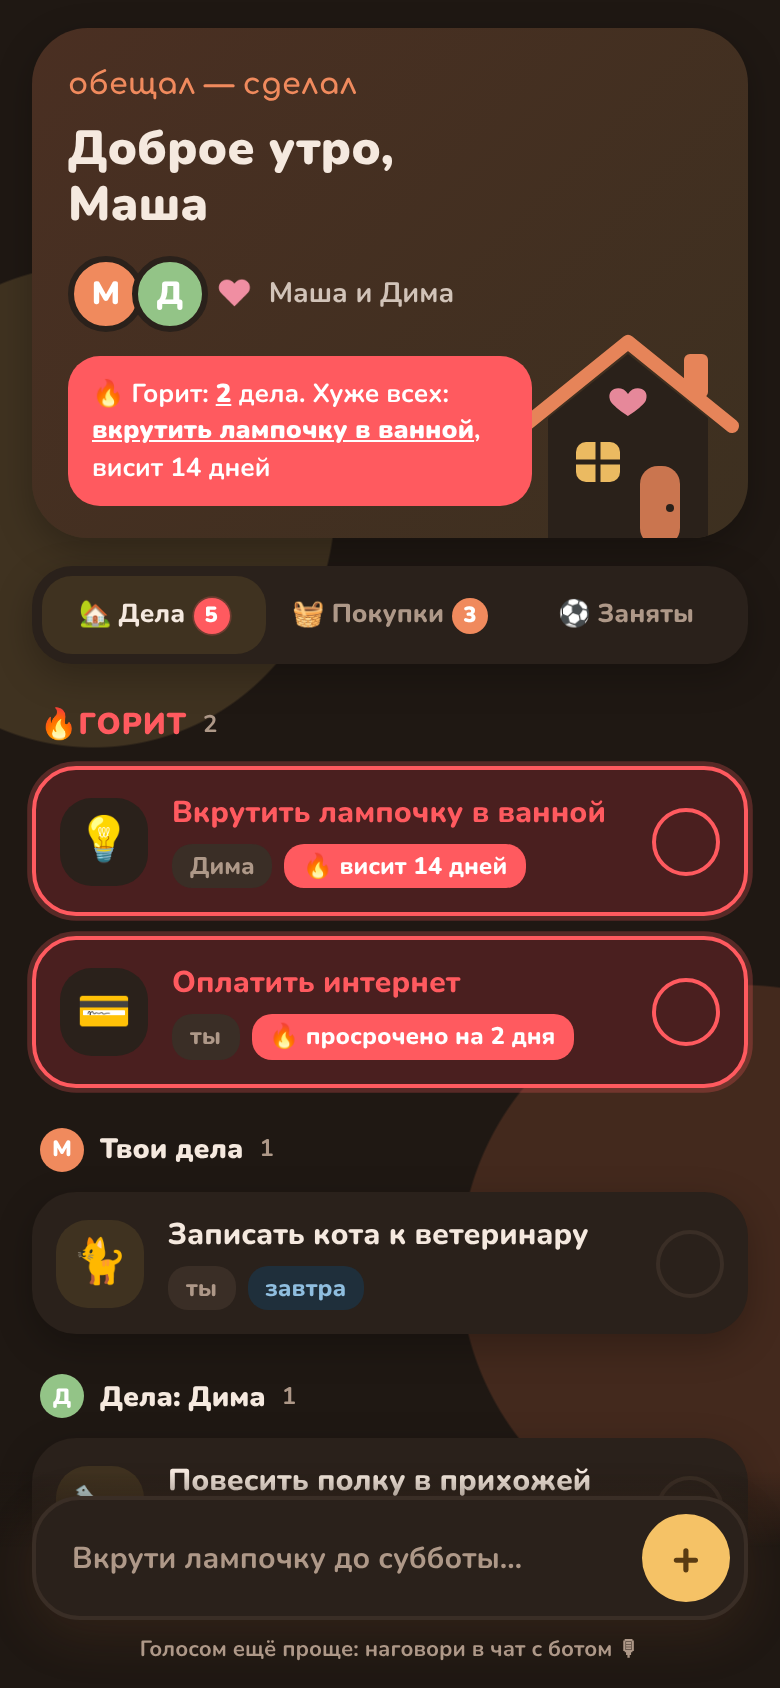
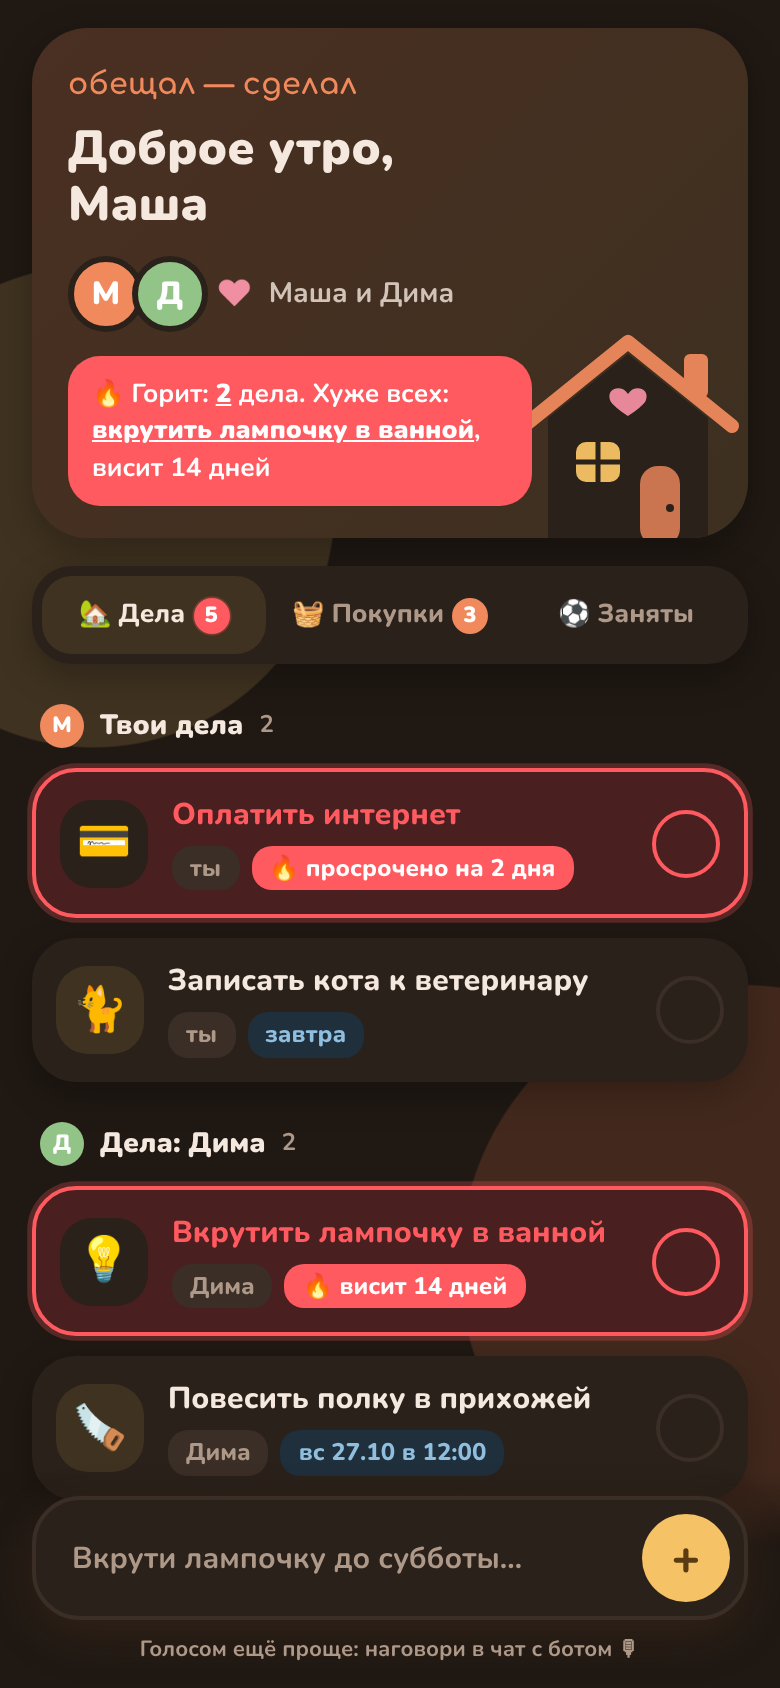
Мини-приложение: без отдельного блока «ГОРИТ»
Просроченные дела остаются красными в своих группах и идут первыми;
о них напоминает одна плашка в шапке.

Claude-Session: https://claude.ai/code/session_01K4WBGGq4fEqRaNC21ns6ax

Changed region(s): [[0.0308, 0.4005, 0.9846, 0.8934]]

diff --git a/webapp/index.html b/webapp/index.html
@@ -275,9 +275,9 @@ function render(){
                busy:["🛋","Все дома, никто не занят.<br>Например: «по четвергам у меня футбол»."]}[tab];
     html = `<div class="empty"><div class="big">${e[0]}</div>${e[1]}</div>`;
   } else if (tab === "tasks") {
-    const cold = items.filter(i => !i.hot);
-    html = group("ГОРИТ", items.filter(i => i.hot), "🔥", "hot")
-         + group("Твои дела", cold.filter(i => i.assignee === me.id), dot(me.name, "--terra"))
+    // Overdue stays in its owner's group, but goes first and glares red.
+    const cold = [...items].sort((x, y) => (y.hot ? 1 : 0) - (x.hot ? 1 : 0));
+    html = group("Твои дела", cold.filter(i => i.assignee === me.id), dot(me.name, "--terra"))
          + (p ? group(`Дела: ${p.name}`, cold.filter(i => i.assignee === p.id), dot(p.name, "--sage")) : "")
          + group("Вместе", cold.filter(i => i.assignee == null), `<span class="dot" style="background:var(--rose)">♥</span>`);
   } else if (tab === "busy") {
